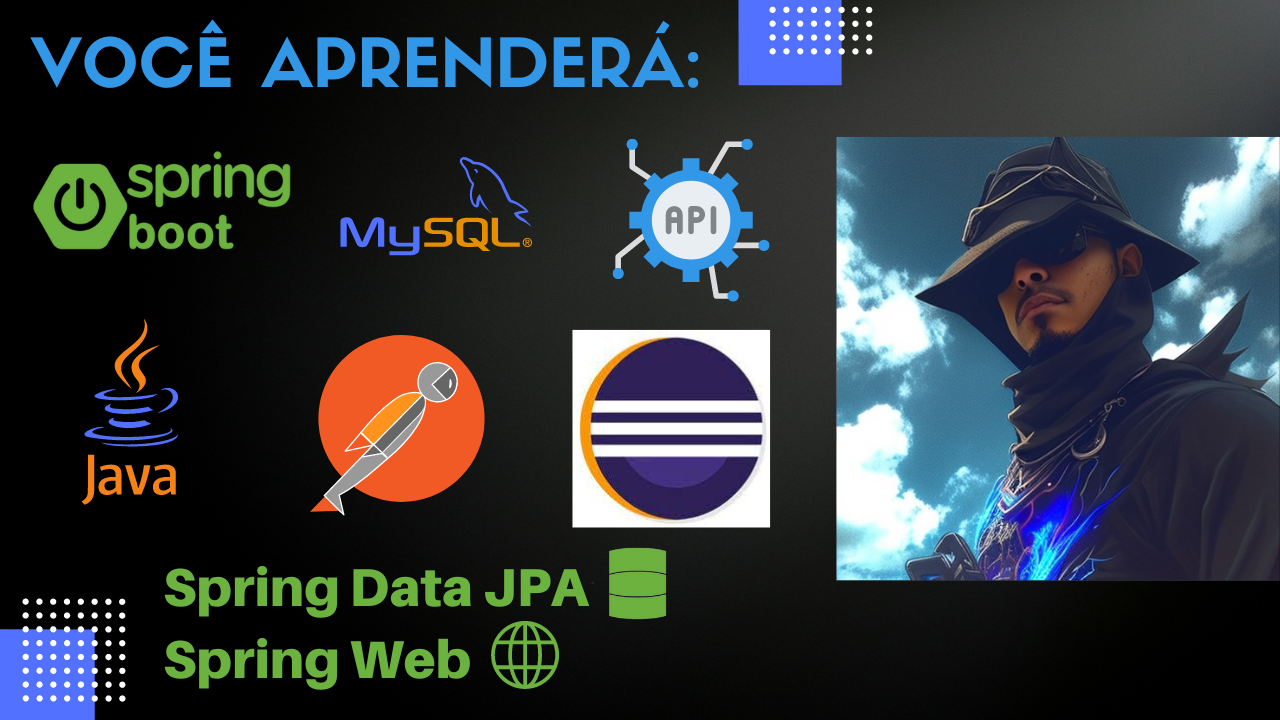
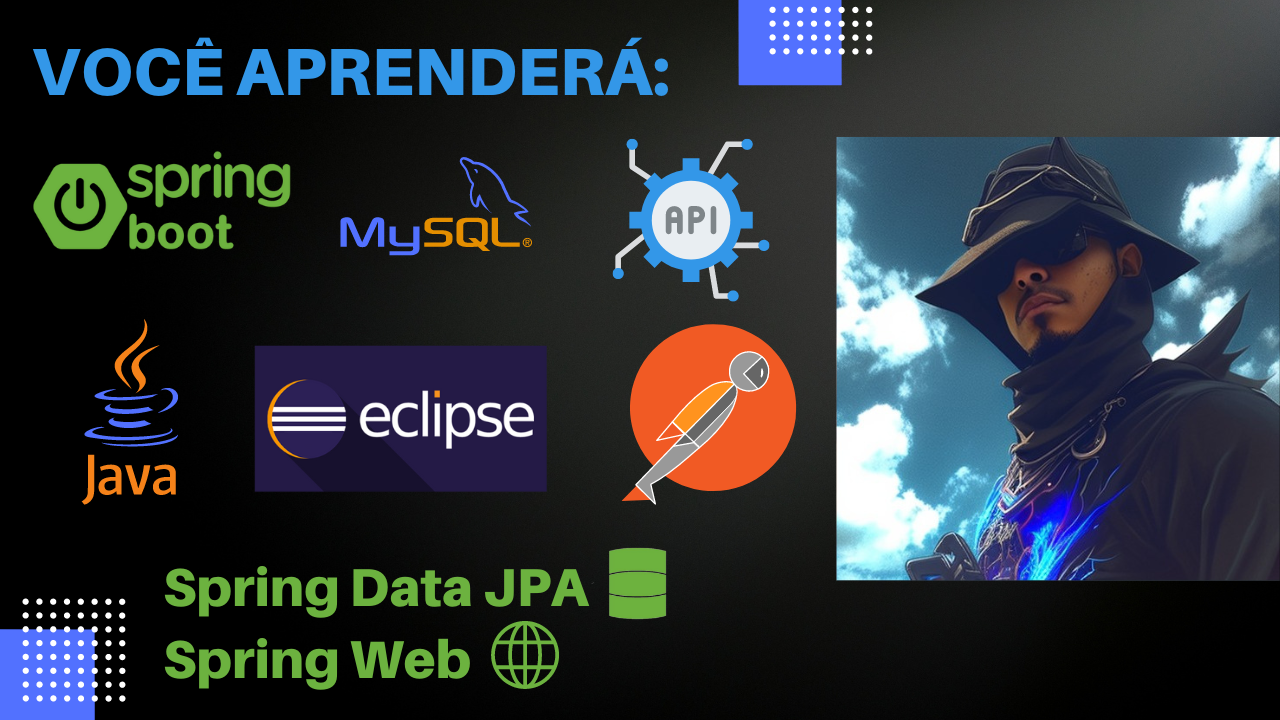
atualizando o pagina principal com conteudos e imagens

Changed region(s): [[0.1875, 0.4278, 0.625, 0.7333], [0.0, 0.0306, 0.5625, 0.1528]]

diff --git a/index.html b/index.html
@@ -56,20 +56,17 @@
 
     <section class="cta1">
         <h2>Conteúdo do Treinamento</h2>
+        
+        <figure>
+            <img src="./img/ferramentas.png" alt="">
+        </figure>
+
         <p>O Treinamento é composto por 4 módulos, sendo que o primeiro módulo é composto pela mensagem de boas-vindas, e a preparação do ambiente de desenvolvimento, com o download, instalação e configuração das ferramentas de desenvolvimento.</p>
         <p>O segundo módulo é composto pelas aulas de criação de projetos, onde o aluno já começa a por a mão na prática, para se habituar a utilizar as ferramentas, de forma simples e didática.</p>
         <p>Já no terceiro módulo é explicado em detalhes, o processo de criação de uma API Rest, com detalhes sobre a arquitetura, utilização e desenvolvimento.</p>
         <p>No quarto módulo, você aprenderá mais sobre as dependências Spring Web, Spring Data JPA, Spring DevTools, em conjunto com o banco de dados relacional, MySQL, o gerenciador de dependências Maven, e o consumo de API via Postman.</p>
         <p>Também será apresentado a criação de requisições web via protocolo http, mapeando os endpoints, com a dependência Spring Web, entendo o passo a passo dessa construção, sem a necessidade de fazer uma imersão em redes de computadores.</p>
         <p>Para finalizar, entenderemos mais sobre Consumo de API com a visão do back-end e front-end, tendo como ferramenta potencializadora do aprendizado, o ChatGPT, os códigos das aulas disponibilizados no Github, e um instrutor para tirar dúvidas.</p>
-    </section>
-
-    <hr>
-
-    <section>
-        <figure>
-            <img src="./img/ferramentas.png" alt="">
-        </figure>
     </section>
 
     <hr>
